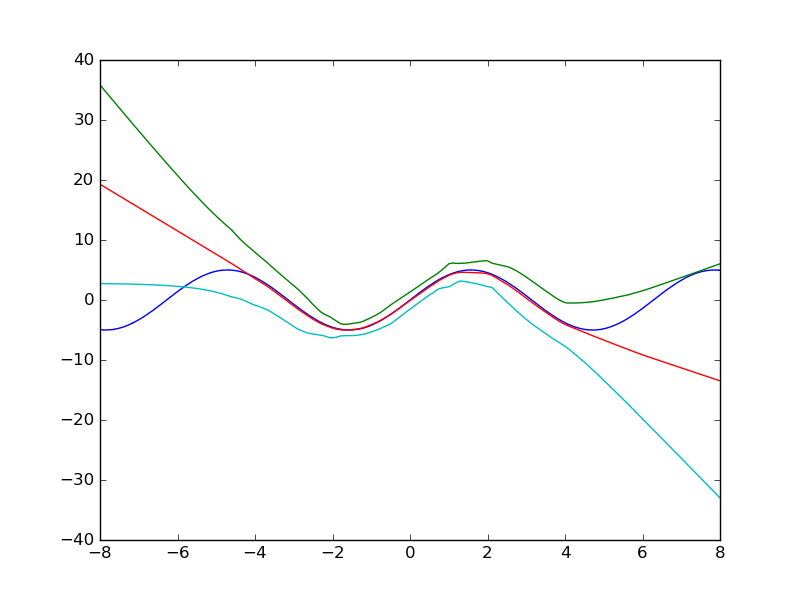
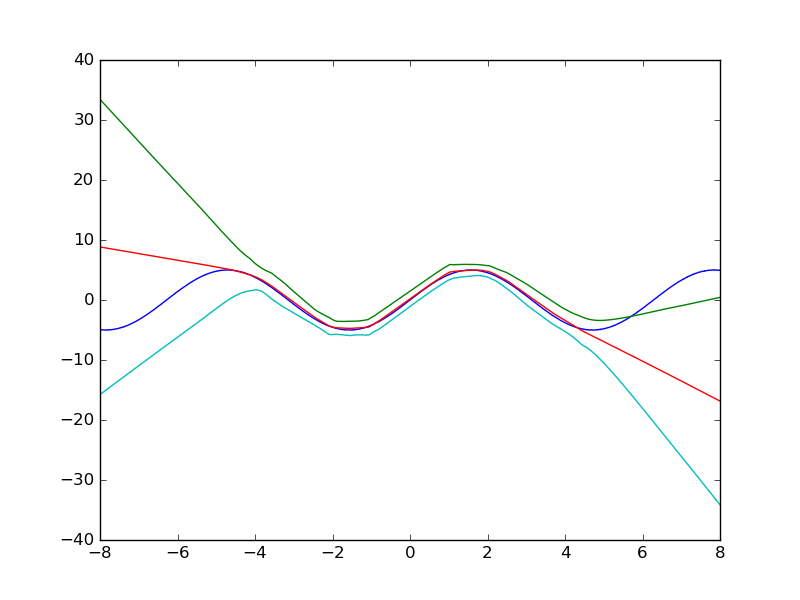
Standardized input features and added output transform

diff --git a/utils.py b/utils.py
@@ -3,38 +3,51 @@ import numpy as np
 
 class DataLoader_RegressionToy():
 
-    def __init__(self, args, infer=False):
+    def __init__(self, args):
 
-        if not infer:
-            self.xs = np.expand_dims(np.linspace(-1, 1, num=100, dtype=np.float32), -1)
-        else:
-            self.xs = np.expand_dims(np.linspace(-2, 2, num=200, dtype=np.float32), -1)
+        self.xs = np.expand_dims(np.linspace(-1, 1, num=100, dtype=np.float32), -1)
 
         self.ys = 5*(self.xs**3) + np.random.normal(scale=0.1, size=self.xs.shape)
+
+        # Standardize input features
+        self.input_mean = np.mean(self.xs, 0)
+        self.input_std = np.std(self.xs, 0)
+        self.xs_standardized = (self.xs - self.input_mean)/self.input_std
+
+        # Target mean and std
+        self.target_mean = np.mean(self.ys, 0)[0]
+        self.target_std = np.std(self.ys, 0)[0]
 
         self.batch_size = args.batch_size
 
     def next_batch(self):
 
-        indices = np.random.choice(np.arange(len(self.xs)), size=self.batch_size)
-        x = self.xs[indices, :]
+        indices = np.random.choice(np.arange(len(self.xs_standardized)), size=self.batch_size)
+        x = self.xs_standardized[indices, :]
         y = self.ys[indices, :]
 
         return x, y
 
     def get_data(self):
 
-        return self.xs, self.ys
+        return self.xs_standardized, self.ys
+
+    def get_test_data(self):
+
+        test_xs = np.expand_dims(np.linspace(-2, 2, num=200, dtype=np.float32), -1)
+
+        test_ys = 5*(test_xs**3) + np.random.normal(scale=0.1, size=test_xs.shape)
+
+        test_xs_standardized = (test_xs - self.input_mean)/self.input_std
+
+        return test_xs_standardized, test_ys
 
 
 class DataLoader_RegressionToy_withKink():
 
-    def __init__(self, args, infer=False):
+    def __init__(self, args):
 
-        if not infer:
-            self.xs = np.expand_dims(np.linspace(-1, 1, num=1000, dtype=np.float32), -1)
-        else:
-            self.xs = np.expand_dims(np.linspace(-2, 2, num=1000, dtype=np.float32), -1)
+        self.xs = np.expand_dims(np.linspace(-1, 1, num=1000, dtype=np.float32), -1)
 
         self.ys = np.zeros(shape=self.xs.shape)
         for i, t in enumerate(self.xs):
@@ -43,18 +56,42 @@ class DataLoader_RegressionToy_withKink():
             else:
                 self.ys[i] = 30*np.sin(t) + np.random.normal(scale=0.01)
 
+        # Standardize input features
+        self.input_mean = np.mean(self.xs, 0)
+        self.input_std = np.std(self.xs, 0)
+        self.xs_standardized = (self.xs - self.input_mean)/self.input_std
+
+        # Target mean and std
+        self.target_mean = np.mean(self.ys, 0)[0]
+        self.target_std = np.std(self.ys, 0)[0]
+
         self.batch_size = args.batch_size
 
     def next_batch(self):
-        indices = np.random.choice(np.arange(len(self.xs)), size=self.batch_size)
-        x = self.xs[indices, :]
+        indices = np.random.choice(np.arange(len(self.xs_standardized)), size=self.batch_size)
+        x = self.xs_standardized[indices, :]
         y = self.ys[indices, :]
 
         return x, y
 
     def get_data(self):
 
-        return self.xs, self.ys
+        return self.xs_standardized, self.ys
+
+    def get_test_data(self):
+
+        test_xs = np.expand_dims(np.linspace(-2, 2, num=1000, dtype=np.float32), -1)
+
+        test_ys = np.zeros(shape=test_xs.shape)
+        for i, t in enumerate(test_xs):
+            if t > 0.25 or t < -0.25:
+                test_ys[i] = 10*(t)**3 + np.random.normal(scale=0.01)
+            else:
+                test_ys[i] = 30*np.sin(t) + np.random.normal(scale=0.01)
+
+        test_xs_standardized = (test_xs - self.input_mean)/self.input_std
+
+        return test_xs_standardized, test_ys
 
 
 class DataLoader_RegressionToy_sinusoidal():
@@ -68,16 +105,35 @@ class DataLoader_RegressionToy_sinusoidal():
 
         self.ys = 5*(np.sin(self.xs)) + np.random.normal(scale=0.01, size=self.xs.shape)
 
+        # Standardize input features
+        self.input_mean = np.mean(self.xs, 0)
+        self.input_std = np.std(self.xs, 0)
+        self.xs_standardized = (self.xs - self.input_mean)/self.input_std
+
+        # Target mean and std
+        self.target_mean = np.mean(self.ys, 0)[0]
+        self.target_std = np.std(self.ys, 0)[0]
+
         self.batch_size = args.batch_size
 
     def next_batch(self):
 
-        indices = np.random.choice(np.arange(len(self.xs)), size=self.batch_size)
-        x = self.xs[indices, :]
+        indices = np.random.choice(np.arange(len(self.xs_standardized)), size=self.batch_size)
+        x = self.xs_standardized[indices, :]
         y = self.ys[indices, :]
 
         return x, y
 
     def get_data(self):
 
-        return self.xs, self.ys
+        return self.xs_standardized, self.ys
+
+    def get_test_data(self):
+
+        test_xs = np.expand_dims(np.linspace(-8, 8, num=2000, dtype=np.float32), -1)
+
+        test_ys = 5*(np.sin(test_xs)) + np.random.normal(scale=0.01, size=test_xs.shape)
+
+        test_xs_standardized = (test_xs - self.input_mean)/self.input_std
+
+        return test_xs_standardized, test_ys

diff --git a/model.py b/model.py
@@ -12,13 +12,17 @@ class MLPGaussianRegressor():
         with tf.variable_scope(model_scope+'learning_rate'):
             self.lr = tf.Variable(args.learning_rate, trainable=False, name='learning_rate')
 
+        with tf.variable_scope(model_scope+'target_stats'):
+            self.output_mean = tf.Variable(0., trainable=False, dtype=tf.float32)
+            self.output_std = tf.Variable(0.1, trainable=False, dtype=tf.float32)
+
         self.weights = []
         self.biases = []
 
         with tf.variable_scope(model_scope+'MLP'):
             for i in range(1, len(sizes)):
-                self.weights.append(tf.Variable(tf.random_normal([sizes[i-1], sizes[i]], stddev=0.001), name='weights_'+str(i-1)))
-                self.biases.append(tf.Variable(tf.random_normal([sizes[i]], stddev=0.001), name='biases_'+str(i-1)))
+                self.weights.append(tf.Variable(tf.random_normal([sizes[i-1], sizes[i]], stddev=0.1), name='weights_'+str(i-1)))
+                self.biases.append(tf.Variable(tf.random_normal([sizes[i]], stddev=0.1), name='biases_'+str(i-1)))
 
         x = self.input_data
         for i in range(0, len(sizes)-2):
@@ -28,7 +32,11 @@ class MLPGaussianRegressor():
 
         self.mean, self.raw_var = tf.split(1, 2, self.output)
 
-        self.var = tf.log(1 + tf.exp(self.raw_var)) + 1e-6
+        # Output transform
+        self.mean = self.mean * self.output_std + self.output_mean
+        self.var = (tf.log(1 + tf.exp(self.raw_var)) + 1e-6) * (self.output_std**2)
+
+        # self.var = tf.log(1 + tf.exp(self.raw_var)) + 1e-6
 
         def gaussian_nll(mean_values, var_values, y):
             y_diff = tf.sub(y, mean_values)
@@ -48,7 +56,11 @@ class MLPGaussianRegressor():
 
         mean_at, raw_var_at = tf.split(1, 2, output_at)
 
-        var_at = tf.log(1 + tf.exp(raw_var_at)) + 1e-6
+        # Output transform
+        mean_at = mean_at * self.output_std + self.output_mean
+        var_at = (tf.log(1 + tf.exp(raw_var_at)) + 1e-6) * (self.output_std**2)
+
+        # var_at = tf.log(1 + tf.exp(raw_var_at)) + 1e-6
 
         self.nll_at = gaussian_nll(mean_at, var_at, self.target_data)
 
@@ -77,6 +89,10 @@ class MLPDropoutGaussianRegressor():
         with tf.variable_scope(model_scope+'learning_rate'):
             self.lr = tf.Variable(args.learning_rate, trainable=False, name='learning_rate')
 
+        with tf.variable_scope(model_scope+'target_stats'):
+            self.output_mean = tf.Variable(0., trainable=False, dtype=tf.float32)
+            self.output_std = tf.Variable(0.1, trainable=False, dtype=tf.float32)
+
         self.dr = tf.placeholder(tf.float32)
 
         self.weights = []
@@ -96,7 +112,11 @@ class MLPDropoutGaussianRegressor():
 
         self.mean, self.raw_var = tf.split(1, 2, self.output)
 
-        self.var = tf.log(1 + tf.exp(self.raw_var)) + 1e-6
+        # Output transform
+        self.mean = self.mean * self.output_std + self.output_mean
+        self.var = (tf.log(1 + tf.exp(self.raw_var)) + 1e-6) * (self.output_std**2)
+
+        # self.var = tf.log(1 + tf.exp(self.raw_var)) + 1e-6
 
         def gaussian_nll(mean_values, var_values, y):
             y_diff = tf.sub(y, mean_values)
@@ -120,7 +140,11 @@ class MLPDropoutGaussianRegressor():
 
         mean_at, raw_var_at = tf.split(1, 2, output_at)
 
-        var_at = tf.log(1 + tf.exp(raw_var_at)) + 1e-6
+        # Output transform
+        mean_at = mean_at * self.output_std + self.output_mean
+        var_at = (tf.log(1 + tf.exp(raw_var_at)) + 1e-6) * (self.output_std**2)
+
+        # var_at = tf.log(1 + tf.exp(raw_var_at)) + 1e-6
 
         self.nll_at = gaussian_nll(mean_at, var_at, self.target_data)
 

diff --git a/train.py b/train.py
@@ -44,8 +44,8 @@ def main():
     parser.add_argument('--keep_prob', type=float, default=0.5,
                         help='Keep probability for dropout')
     args = parser.parse_args()
-    # train_ensemble(args)
-    train_dropout(args)
+    train_ensemble(args)
+    # train_dropout(args)
 
 
 def ensemble_mean_var(ensemble, xs, sess):
@@ -94,6 +94,10 @@ def train_ensemble(args):
     with tf.Session() as sess:
         sess.run(tf.initialize_all_variables())
 
+        for model in ensemble:
+            sess.run(tf.assign(model.output_mean, dataLoader.target_mean))
+            sess.run(tf.assign(model.output_std, dataLoader.target_std))
+
         for itr in range(args.max_iter):
             # print itr
             for model in ensemble:
@@ -101,27 +105,30 @@ def train_ensemble(args):
                 x, y = dataLoader.next_batch()
 
                 feed = {model.input_data: x, model.target_data: y}
-                _, nll = sess.run([model.train_op, model.nll], feed)
+                _, nll, m, v = sess.run([model.train_op, model.nll, model.mean, model.var], feed)
+
+                # ipdb.set_trace()
 
                 if itr % 100 == 0:
                     sess.run(tf.assign(model.lr, args.learning_rate * (args.decay_rate ** (itr/100))))
                     print 'itr', itr, 'nll', nll
 
-        test_ensemble(ensemble, sess, args)
+        test_ensemble(ensemble, sess, dataLoader)
 
 
-def test_ensemble(ensemble, sess, args):
-    testDataLoader = DataLoader_RegressionToy_sinusoidal(args, infer=True)
-    test_xs, test_ys = testDataLoader.get_data()
+def test_ensemble(ensemble, sess, dataLoader):
+    test_xs, test_ys = dataLoader.get_test_data()
     mean, var = ensemble_mean_var(ensemble, test_xs, sess)
     std = np.sqrt(var)
     upper = mean + 3*std
     lower = mean - 3*std
 
-    plt.plot(test_xs, test_ys, 'b-')
-    plt.plot(test_xs, mean, 'r-')
-    plt.plot(test_xs, upper, 'g-')
-    plt.plot(test_xs, lower, 'c-')
+    test_xs_scaled = dataLoader.input_mean + dataLoader.input_std*test_xs
+
+    plt.plot(test_xs_scaled, test_ys, 'b-')
+    plt.plot(test_xs_scaled, mean, 'r-')
+    plt.plot(test_xs_scaled, upper, 'g-')
+    plt.plot(test_xs_scaled, lower, 'c-')
     plt.show()
 
 
@@ -129,7 +136,7 @@ def train_dropout(args):
     # Layer sizes
     sizes = [1, 50, 50, 2]
     # Input data
-    dataLoader = DataLoader_RegressionToy_withKink(args)
+    dataLoader = DataLoader_RegressionToy_sinusoidal(args)
 
     # ipdb.set_trace()
 
@@ -137,7 +144,8 @@ def train_dropout(args):
 
     with tf.Session() as sess:
         sess.run(tf.initialize_all_variables())
-
+        sess.run(tf.assign(model.output_mean, dataLoader.target_mean))
+        sess.run(tf.assign(model.output_std, dataLoader.target_std))
         for itr in range(args.max_iter):
 
             x, y = dataLoader.next_batch()
@@ -149,12 +157,11 @@ def train_dropout(args):
                 sess.run(tf.assign(model.lr, args.learning_rate * (args.decay_rate ** (itr/100))))
                 print 'itr', itr, 'nll', nll
 
-        test_dropout(model, sess, args)
+        test_dropout(model, sess, dataLoader, args)
 
 
-def test_dropout(model, sess, args):
-    testDataLoader = DataLoader_RegressionToy_withKink(args, infer=True)
-    test_xs, test_ys = testDataLoader.get_data()
+def test_dropout(model, sess, dataLoader, args):
+    test_xs, test_ys = dataLoader.get_test_data()
     mean, var = dropout_mean_var(model, test_xs, sess, args)
     std = np.sqrt(var)
     upper = mean + 3*std
